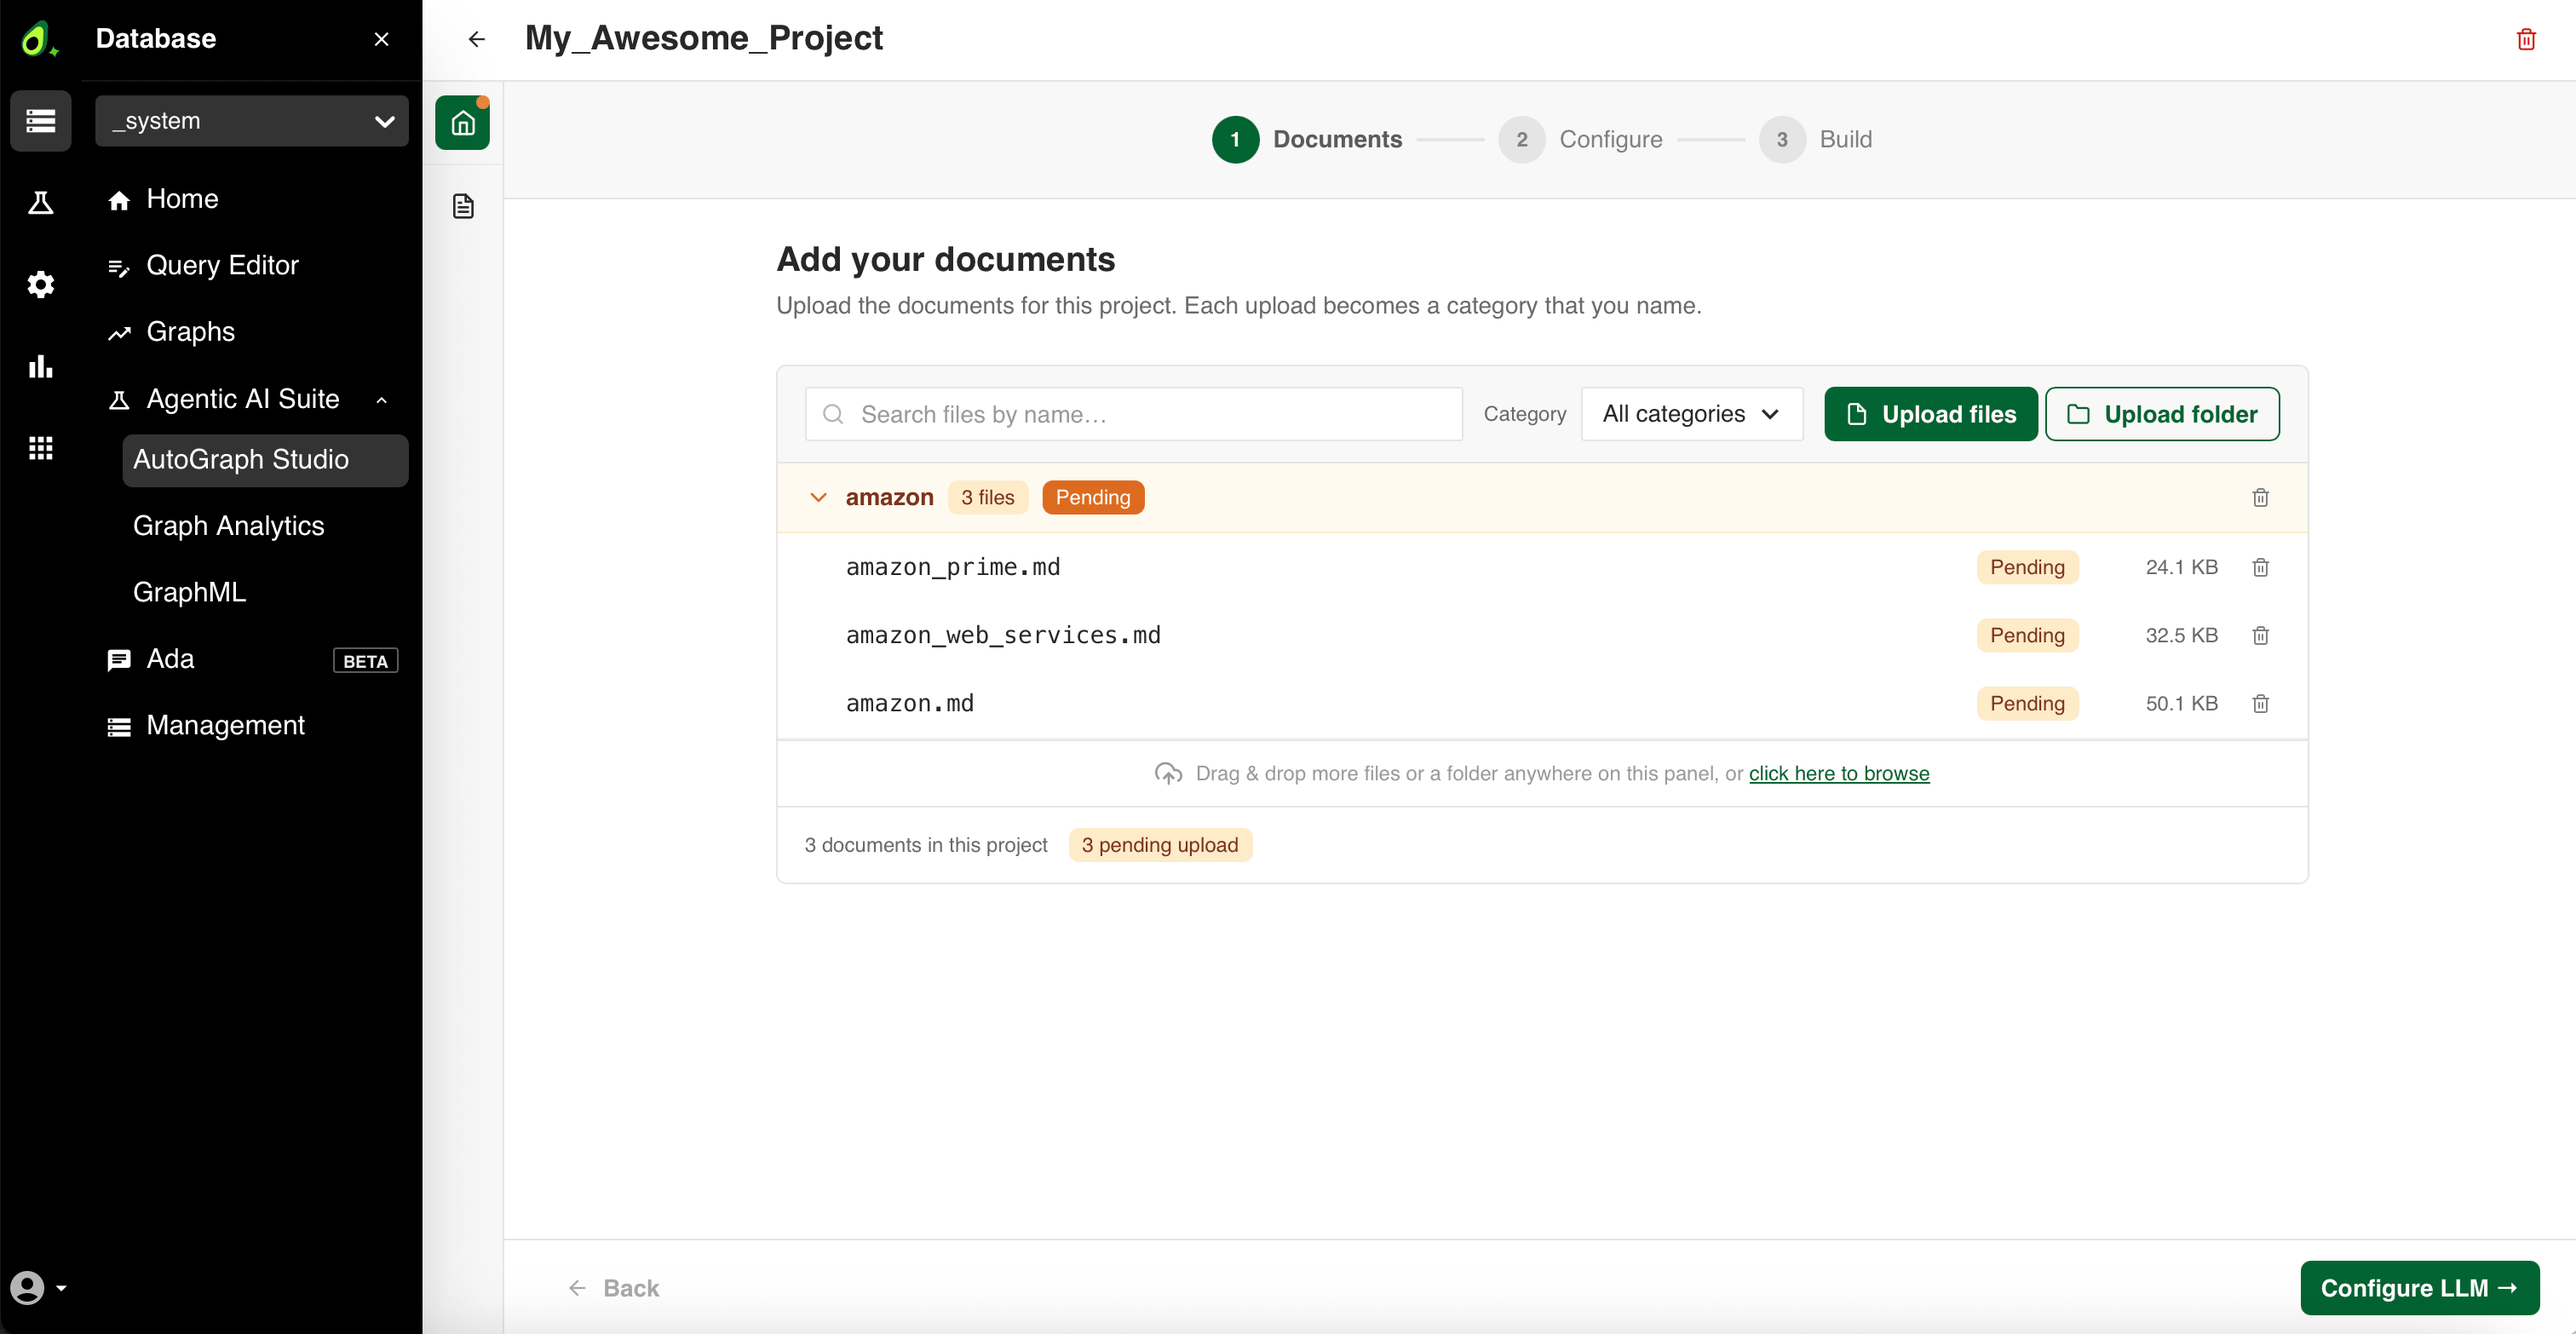
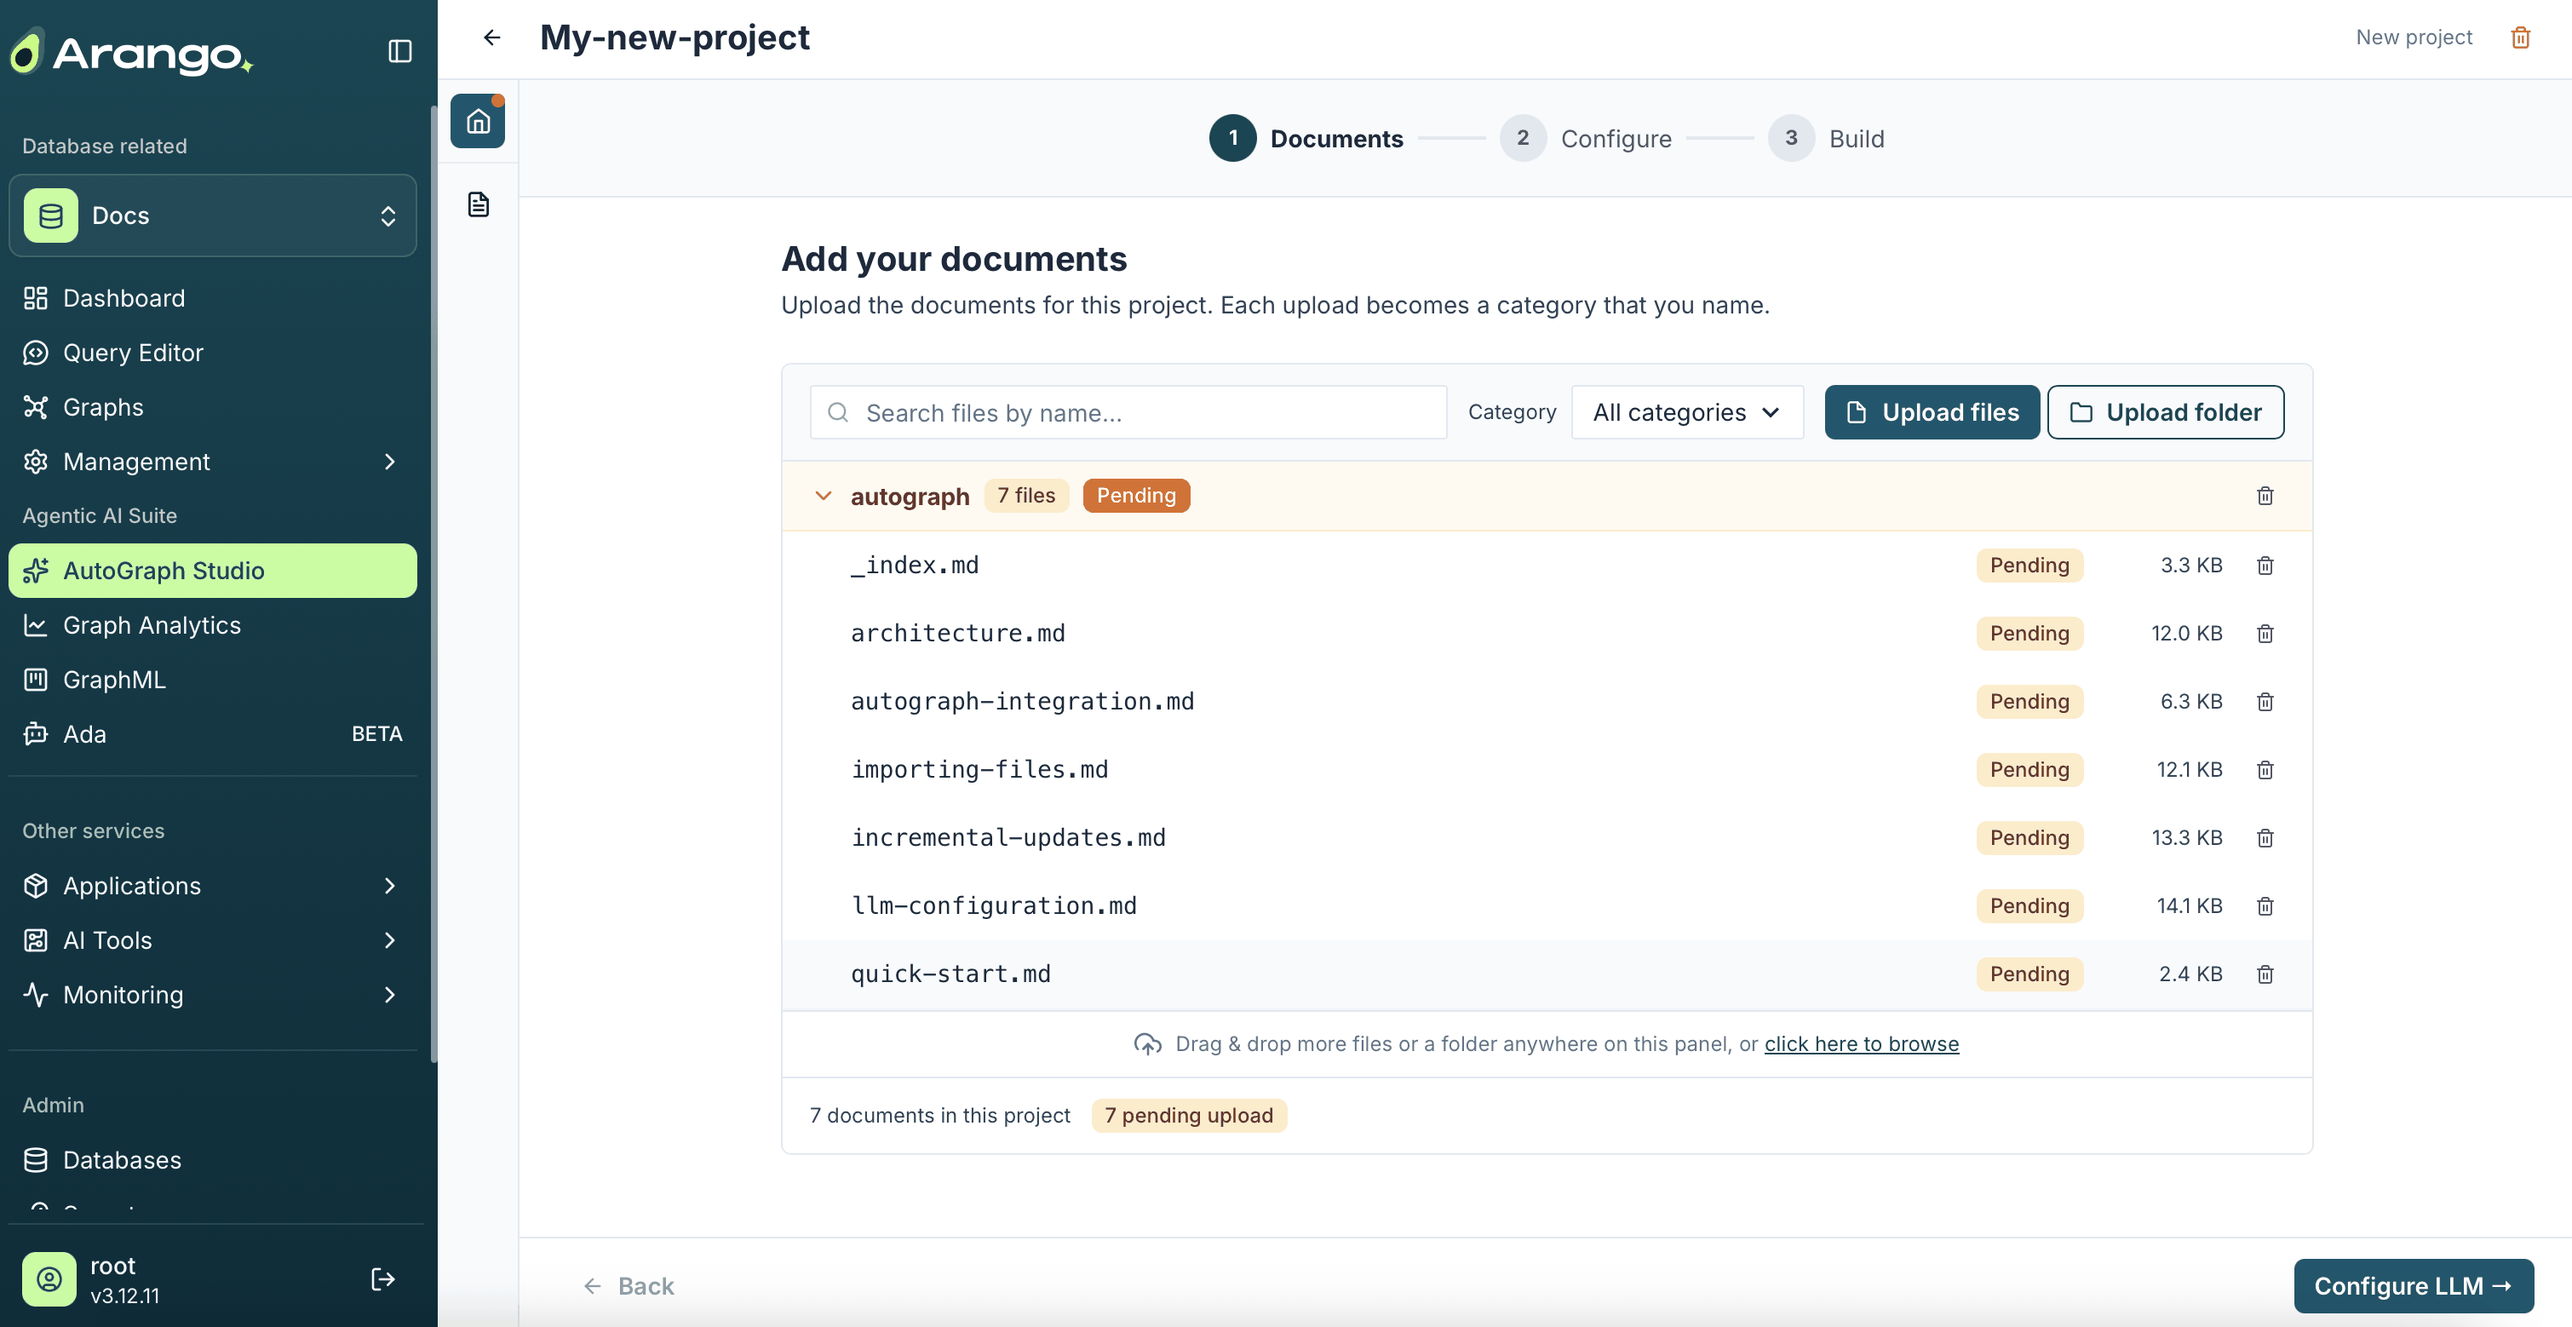
AIS-2328: Update the AutoGraph pending documents screenshot
Files are now removed with a trash icon instead of a cross icon.

diff --git a/site/content/agentic-ai-suite/autograph/web-interface.md b/site/content/agentic-ai-suite/autograph/web-interface.md
@@ -97,8 +97,8 @@ the project when you continue to the next step.
    You can:
    - Use the **Search files by name** field and the **Category** dropdown to
      filter the list.
-   - Remove a single file with the cross icon, or delete a whole category with
-     the trash icon.
+   - Remove a single file or delete a whole category with the trash icon next to
+     it.
    - Repeat the upload to add more categories. Every upload opens its own
      **Name this category** dialog, and the files you already staged stay pending
      in the background. The footer counts them across all categories, for example
